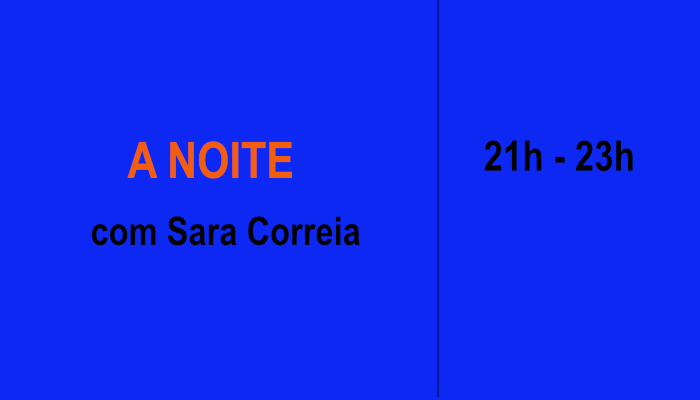
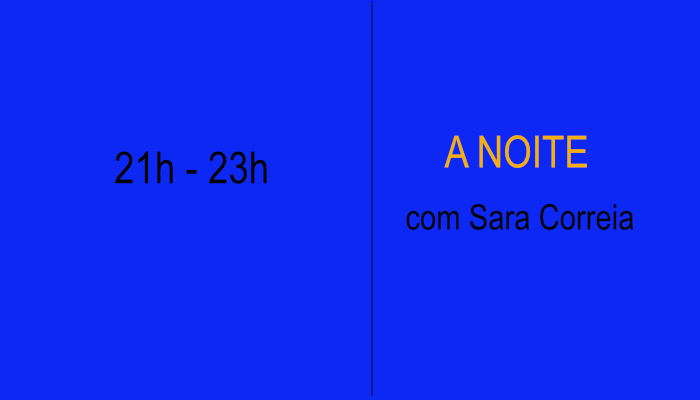
danielgaspar enviar

diff --git a/site/programacao.md b/site/programacao.md
@@ -31,13 +31,12 @@ permalink: /programacao/
 
 <img src="/imagens/atarde.png" alt="A TARDE">
 <img src="/imagens/rockmusic.png" alt="ROCK MUSIC">
-<img src="/imagens/a-noite.png" alt="A NOITE">
+<img src="/imagens/a-noite2.png" alt="A NOITE">
 
   </div>
   <div class="quinta">
-<img src="/imagens/music-nonstop1.png" alt="MUSIC NONSTOP">
 <img src="/imagens/atarde.png" alt="A TARDE">
-<img src="/imagens/musicnonstop22.png" alt="MÚSIC NONSTOP">
+<img src="/imagens/a-noite.png" alt="A NOITE">
 
   </div>
   <div class="sexta">
